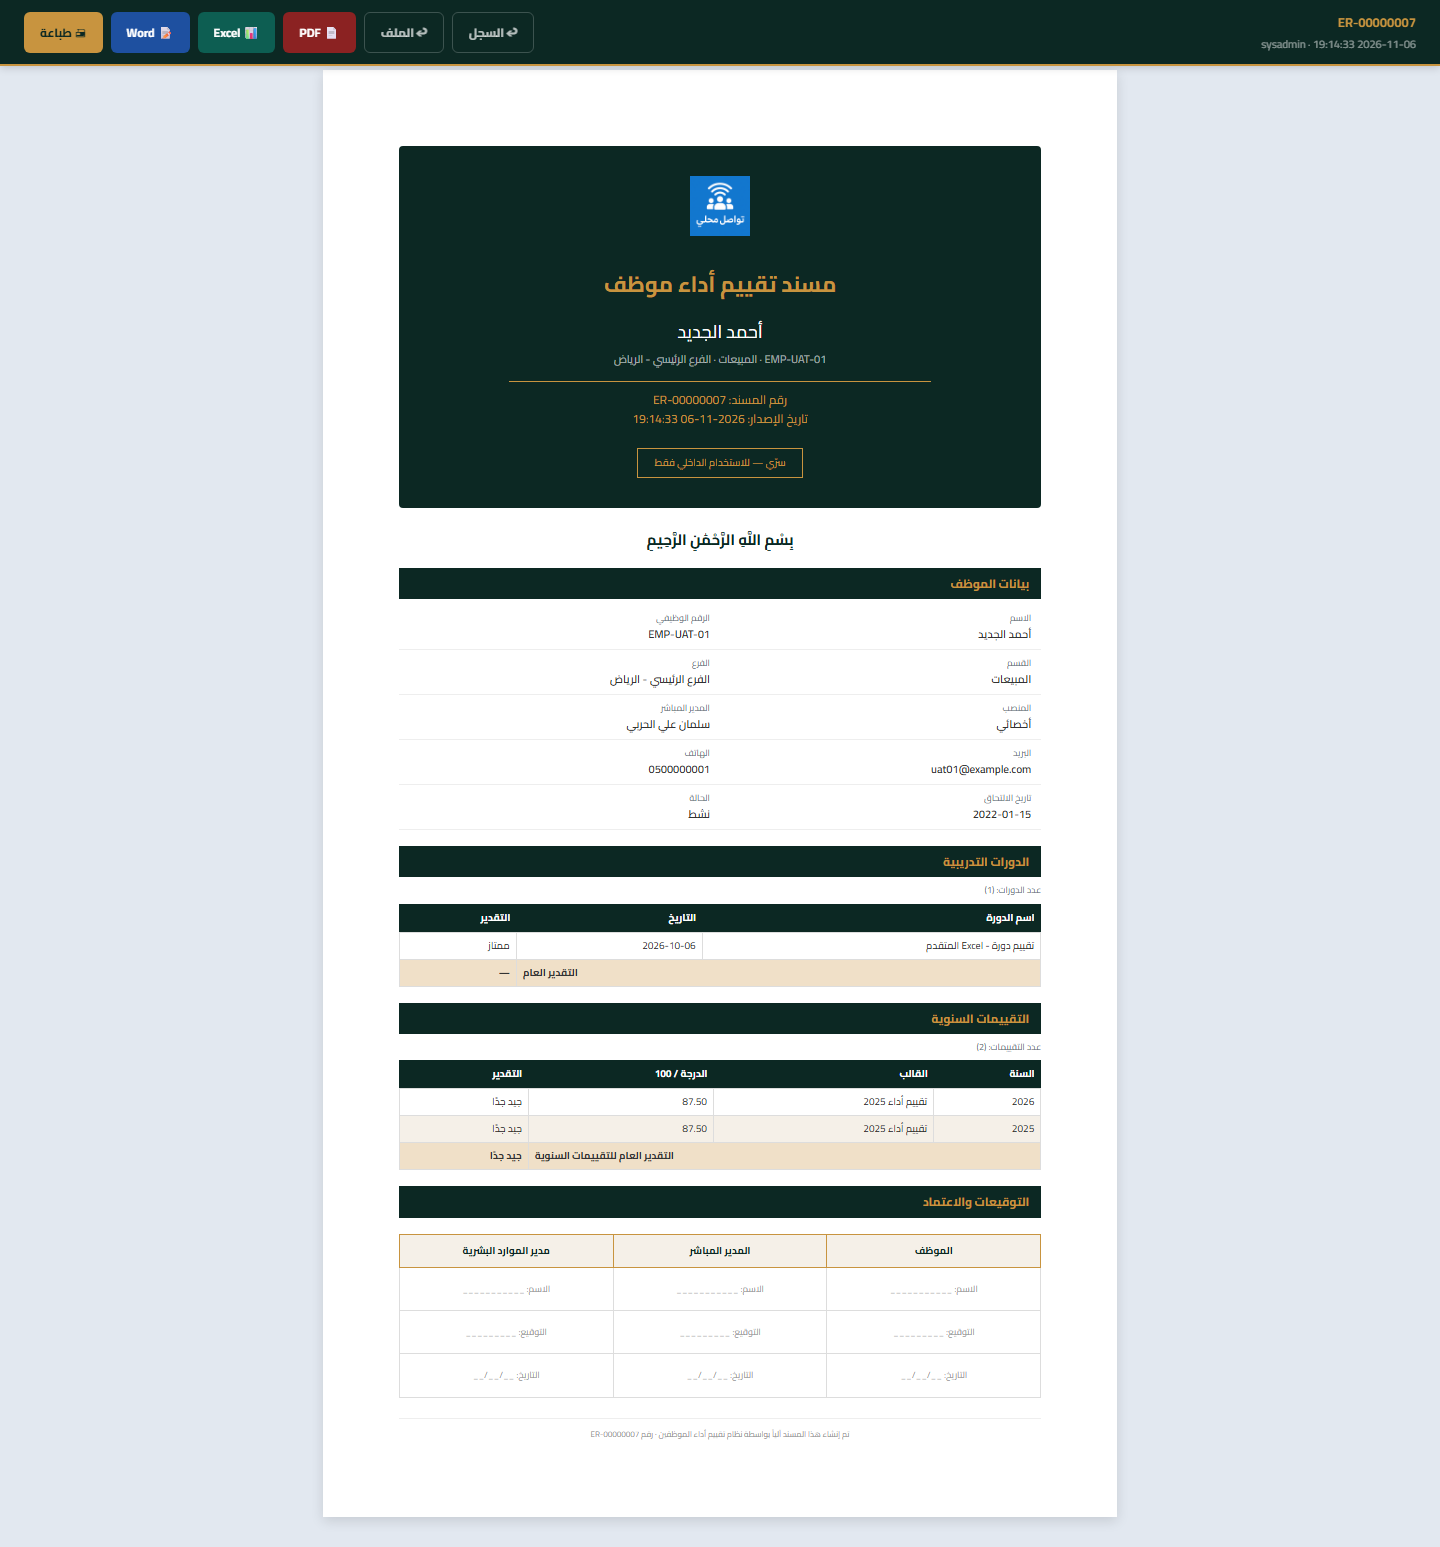
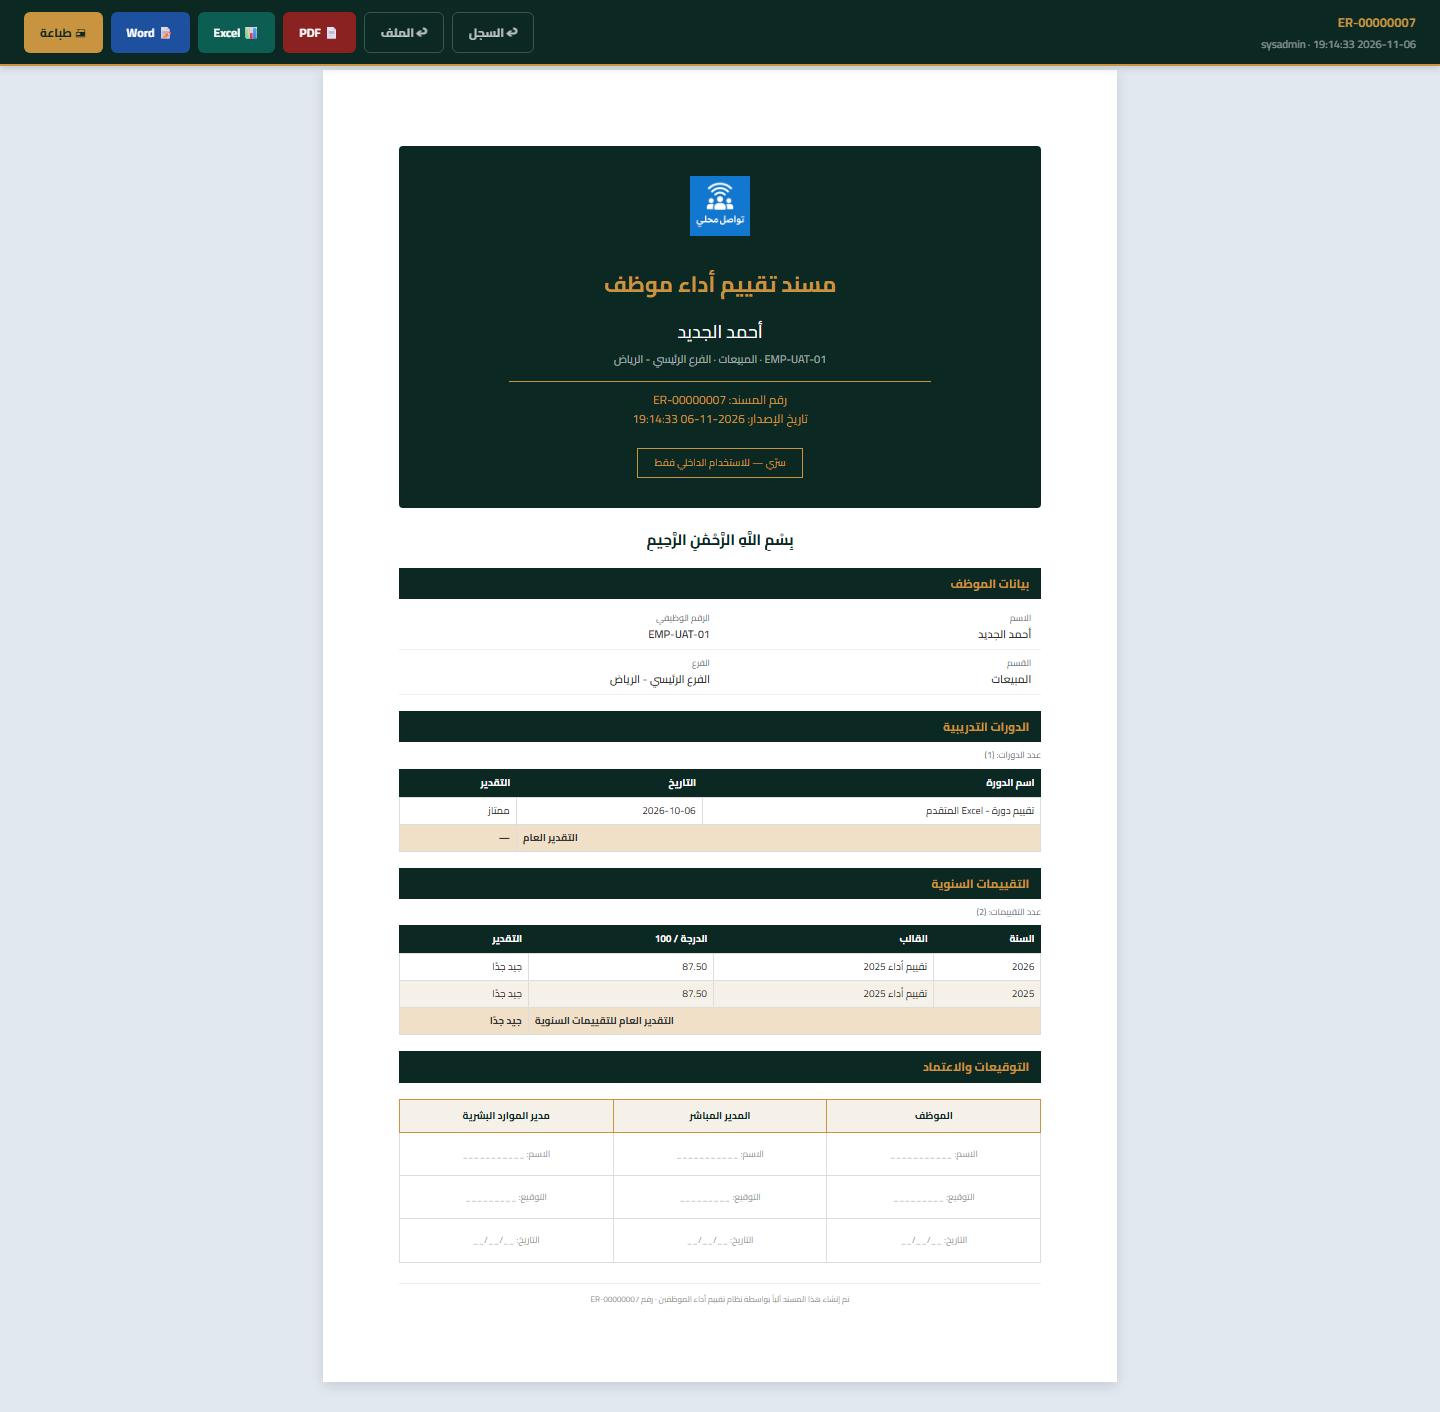
fix(CD-021): show only name, code, department and branch in employee data grid

Changed region(s): [[0.25, 0.0935, 0.75, 0.9348], [0.0, 0.0, 1.0, 0.0623]]

diff --git a/app/Views/employees/report.php b/app/Views/employees/report.php
@@ -154,12 +154,10 @@ table.sig td { padding:14px 8px; text-align:center; font-size:9px; color:#999; b
         <div class="section-title">بيانات الموظف</div>
         <div class="emp-grid">
             <?php
+            // بيانات الموظف الأساسية فقط (4 خانات = صفّان متوازنان في الشبكة).
             $fields = [
                 'الاسم' => $employee['full_name'] ?? '', 'الرقم الوظيفي' => $employee['emp_code'] ?? '',
                 'القسم' => $employee['department_name'] ?? '', 'الفرع' => $employee['branch_name'] ?? '',
-                'المنصب' => $employee['position_title'] ?? '', 'المدير المباشر' => $employee['manager_name'] ?? '',
-                'البريد' => $employee['email'] ?? '', 'الهاتف' => $employee['phone'] ?? '',
-                'تاريخ الالتحاق' => $employee['hire_date'] ?? '', 'الحالة' => $employee['status'] ?? '',
             ];
             foreach ($fields as $label => $value):
             ?>
